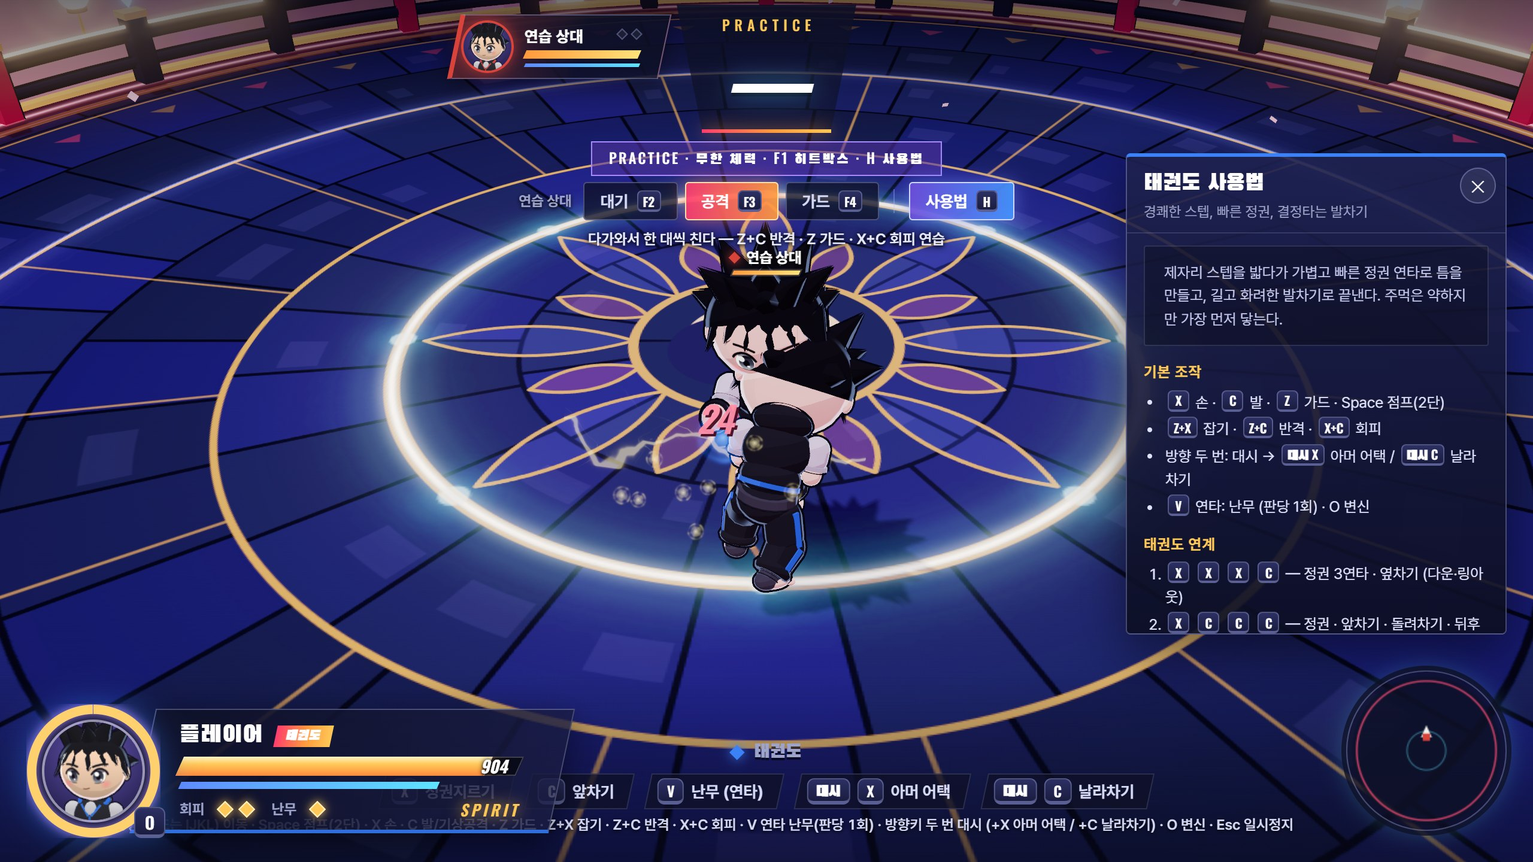
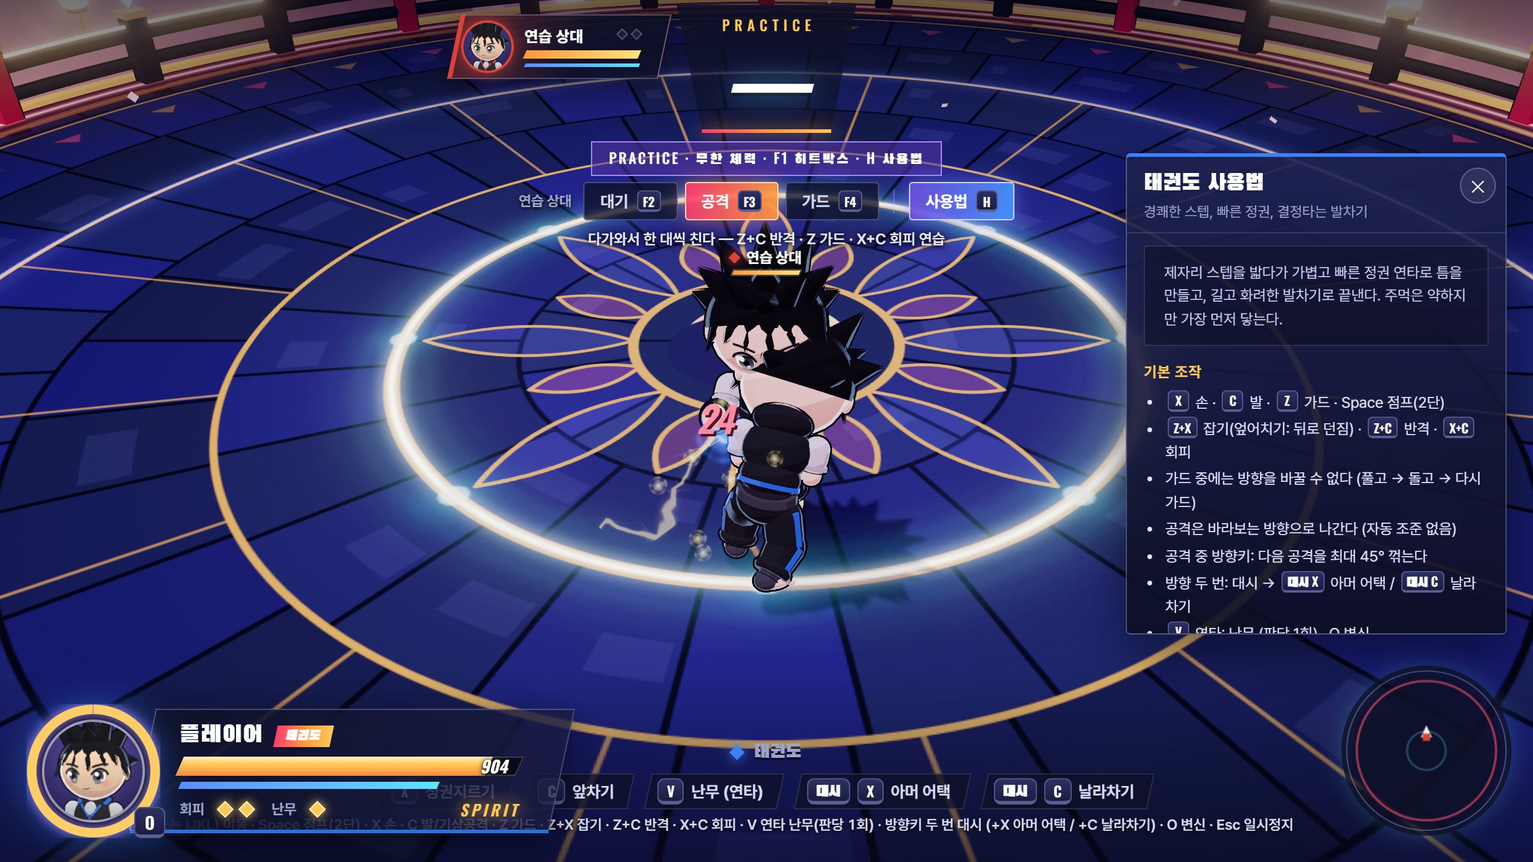
Shoulder throw, locked guard facing, manual aim, practice map picker
- Basic grab is now a shoulder throw: the opponent goes over and lands behind
- Guard cannot turn; drop it, turn, guard again
- Player attacks no longer auto-face enemies; follow-ups steer up to 45 degrees
- Practice: guard partner walks up to the player, map can be chosen on the select screen
- Add tools/test-rules.mjs

Changed region(s): [[0.75, 0.4688, 0.9688, 0.75], [0.375, 0.5, 0.5625, 0.6562]]

diff --git a/src/fighter.ts b/src/fighter.ts
@@ -27,6 +27,8 @@ export interface Ctrl {
   mx: number; mz: number; dash: boolean; guard: boolean;
   J: boolean; K: boolean; S: boolean; jump: boolean; Jh?: boolean; grab: boolean; counter: boolean; transform: boolean; s1: boolean; s2: boolean;
 }
+/** how far one follow-up attack can be turned with the stick */
+export const STEER_MAX = Math.PI / 4;
 export const emptyCtrl = (): Ctrl => ({ mx: 0, mz: 0, dash: false, guard: false, J: false, K: false, S: false, jump: false, grab: false, counter: false, transform: false, s1: false, s2: false });
 const BUFFERED: (keyof Ctrl)[] = ['J', 'K', 'S', 'jump', 'grab', 'counter', 'transform', 's1', 's2'];
 
@@ -52,7 +54,11 @@ export class Fighter {
   freeze = 0; hitT = 0; shake = 0; flash = 0; flashColor = new THREE.Color(1, 1, 1); invuln = 0; combo = 0; comboDmg = 0; comboT = 0;
   lastHitBy?: Fighter; lastHitAt = -999; koPending = false; stunFor = 20; downFace = false;
   poisonT = 0; poisonBy?: Fighter; confuseT = 0; veilT = 0;
-  grabbedBy?: Fighter; holding?: Fighter; throwKind: 'normal' | 'hip' | 'counter' = 'normal';
+  grabbedBy?: Fighter; holding?: Fighter; throwKind: 'normal' | 'over' | 'hip' | 'counter' = 'normal';
+  /** the current attack was aimed with the stick, so it does not auto-face a target */
+  steered = false;
+  /** over-the-shoulder throws: the opponent is carried up and dropped behind */
+  get overThrow() { return this.throwKind === 'hip' || this.throwKind === 'over'; }
   ctrl: Ctrl = emptyCtrl(); prev: Ctrl = emptyCtrl(); buf: Partial<Record<keyof Ctrl, number>> = {};
   stats = { dmg: 0, taken: 0, kos: 0, ringouts: 0, maxCombo: 0 };
   roundWins = 0; alive = true; aura?: THREE.Object3D; blade?: THREE.Mesh; hpView = 1000;
@@ -129,8 +135,18 @@ export class Fighter {
     this.move = m; this.hitDone.clear(); this.queued = undefined; this.queuedGrab = false; this.specialDone = false;
     this.chargeT = m.charge ? 0 : -1; this.charged = false;
     if (this.ctrl.dash) this.dashLock = true; // a running attack ends the run
-    const tgt = world.nearestEnemy(this, 4);
-    if (tgt && m.special !== 'teleport') this.faceToward(tgt.pos, 1);
+    // a follow-up attack can be steered: holding a direction turns it up to 45 degrees from where the last one pointed
+    const sl = Math.hypot(this.ctrl.mx, this.ctrl.mz);
+    // the player aims by hand: no strike turns toward an enemy by itself (난무 and specials still seek their target)
+    this.steered = this.isPlayer && !world.autopilot && !m.nanmu && !m.special;
+    if (this.steered && !(this.state === 'attack' && sl > 0.3)) { /* keeps pointing where it already points */ }
+    else if (this.steered) {
+      let diff = Math.atan2(this.ctrl.mx, this.ctrl.mz) - this.yaw; diff = Math.atan2(Math.sin(diff), Math.cos(diff));
+      this.yaw += Math.max(-STEER_MAX, Math.min(STEER_MAX, diff));
+    } else {
+      const tgt = world.nearestEnemy(this, 4);
+      if (tgt && m.special !== 'teleport') this.faceToward(tgt.pos, 1);
+    }
     this.setState('attack');
     this.play(m.anim, { speed: m.speed, loop: false, fade: 0.05 });
     if (m.invuln) this.invuln = m.invuln;
@@ -204,6 +220,7 @@ export class Fighter {
       case 'land': this.vel.x *= 0.6; this.vel.z *= 0.6; if (this.stateT > 6) this.toNeutral(); break;
       case 'attack': this.updateAttack(world); break;
       case 'guard': {
+        // a guard is committed to the direction it was raised in: to face elsewhere, drop it, turn, and guard again
         this.vel.x *= 0.6; this.vel.z *= 0.6;
         if (!c.guard) this.toNeutral(); else if (this.pressed('grab')) this.startGrab(); else if (this.pressed('counter')) { this.setState('counter'); this.play('Sword_Block', { speed: 1.4, loop: false }); }
         break;
@@ -213,9 +230,11 @@ export class Fighter {
       case 'throwing': {
         const v = this.holding;
         if (v && v.state === 'thrown') {
-          const f = this.forward(); const lift = this.throwKind === 'hip' ? Math.min(0.8, this.stateT * 0.04) : Math.min(0.45, this.stateT * 0.016);
-          v.pos.set(this.pos.x + f.x * 0.7, this.pos.y + lift, this.pos.z + f.z * 0.7); v.yaw = this.yaw + Math.PI; v.vel.set(0, 0, 0);
-          if (this.stateT === (this.throwKind === 'hip' ? 22 : 26)) world.releaseThrow(this, v);
+          const f = this.forward(); const lift = this.overThrow ? Math.min(0.8, this.stateT * 0.04) : Math.min(0.45, this.stateT * 0.016);
+          // shoulder throw: the opponent is hauled from the front, up over the shoulder, to behind
+          const k = this.throwKind === 'over' ? Math.min(1, Math.max(0, (this.stateT - 8) / 14)) : 0; const off = 0.7 - 1.1 * k * k; const ly = this.throwKind === 'over' ? lift + 0.25 * k : lift;
+          v.pos.set(this.pos.x + f.x * off, this.pos.y + ly, this.pos.z + f.z * off); v.yaw = this.yaw + Math.PI; v.vel.set(0, 0, 0);
+          if (this.stateT === (this.overThrow ? 22 : 26)) world.releaseThrow(this, v);
         }
         // jujutsu: after the release the throw can be jump-cancelled to chase the tossed opponent
         if (this.style.comboGrab && this.throwKind !== 'hip' && this.stateT > 27 && this.pressed('jump')) {
@@ -278,7 +297,12 @@ export class Fighter {
     else if (this.grounded && first && t < first.from && !m.radial && !m.special) {
       // homing step: close the gap to a target in front so strikes connect
       const tgt = world.nearestEnemy(this, 2.6); const want = first.limb.startsWith('foot') ? 0.88 : first.limb.startsWith('hand') ? 0.74 : 0.62;
-      if (tgt) {
+      if (this.steered) { // aimed by hand: step where it points, never turn; only stop short of someone already straight ahead
+        const f = this.forward(); let sp = 1.6;
+        if (tgt) { const d = tgt.pos.clone().sub(this.pos); d.y = 0; const dist = d.length() || 1; if ((d.x * f.x + d.z * f.z) / dist > 0.7) sp = dist > want ? Math.min(4.5, (dist - want) * 8) : 0; }
+        this.vel.x = f.x * sp; this.vel.z = f.z * sp;
+      }
+      else if (tgt) {
         const d = tgt.pos.clone().sub(this.pos); d.y = 0; const dist = d.length();
         this.faceToward(tgt.pos, 0.2);
         const sp = dist > want ? Math.min(4.5, (dist - want) * 8) : 0; const f = this.forward(); this.vel.x = f.x * sp; this.vel.z = f.z * sp;
@@ -438,6 +462,8 @@ export class Fighter {
 }
 
 export interface World {
+  /** demo mode: the player character is driven by the AI and aims like one */
+  autopilot?: boolean;
   nearestEnemy(f: Fighter, maxD?: number): Fighter | undefined;
   checkHits(f: Fighter, m: MoveDef, hitIndex: number): void;
   tryGrab(f: Fighter, cmd: boolean, combo?: boolean): boolean;

diff --git a/src/practice.ts b/src/practice.ts
@@ -7,7 +7,7 @@ export type DummyMode = 'idle' | 'attack' | 'guard';
 const MODES: [DummyMode, string, string][] = [
   ['idle', '대기', '가만히 서 있는다 — 콤보 연습'],
   ['attack', '공격', '다가와서 한 대씩 친다 — Z+C 반격 · Z 가드 · X+C 회피 연습'],
-  ['guard', '가드', '계속 막고 있는다 — Z+X 잡기 연습'],
+  ['guard', '가드', '다가와서 계속 막는다 — Z+X 잡기(엎어치기) 연습'],
 ];
 /** how often the partner throws its single strike, in ticks */
 const ATTACK_EVERY = 84;
@@ -44,7 +44,7 @@ function guideHtml(g: Game) {
   const st = STYLES[g.pcfg.style];
   const li = (a: string[]) => a.map((c) => `<li>${keys(c)}</li>`).join('');
   return `<p class="desc">${st.desc}</p>
-    <h4>기본 조작</h4><ul>${li(['X 손 · C 발 · Z 가드 · Space 점프(2단)', 'Z+X 잡기 · Z+C 반격 · X+C 회피', '방향 두 번: 대시 → 대시 X 아머 어택 / 대시 C 날라차기', 'V 연타: 난무 (판당 1회) · O 변신'])}</ul>
+    <h4>기본 조작</h4><ul>${li(['X 손 · C 발 · Z 가드 · Space 점프(2단)', 'Z+X 잡기(엎어치기: 뒤로 던짐) · Z+C 반격 · X+C 회피', '가드 중에는 방향을 바꿀 수 없다 (풀고 → 돌고 → 다시 가드)', '공격은 바라보는 방향으로 나간다 (자동 조준 없음)', '공격 중 방향키: 다음 공격을 최대 45° 꺾는다', '방향 두 번: 대시 → 대시 X 아머 어택 / 대시 C 날라차기', 'V 연타: 난무 (판당 1회) · O 변신'])}</ul>
     <h4>${st.name} 연계</h4><ol>${li(st.combos)}</ol>
     <h4>특성</h4><ul>${li(st.traits)}</ul>
     <h4>상성</h4><ul><li>공격 &gt; 잡기 &gt; 가드·반격 &gt; 공격</li><li>상대 <b>공격</b> 모드: 맞기 직전에 ${keys('Z+C')} 반격</li><li>상대 <b>가드</b> 모드: 때리지 말고 ${keys('Z+X')} 잡기</li></ul>`;
@@ -71,7 +71,16 @@ export function dummyCtrl(g: Game, f: Fighter): Ctrl {
   const c = emptyCtrl(); const P = g.player; if (!P || g.dummy === 'idle') return c;
   const dx = P.pos.x - f.pos.x, dz = P.pos.z - f.pos.z, d = Math.hypot(dx, dz) || 1;
   const free = f.controllable() && f.grounded;
-  if (g.dummy === 'guard') { if (free || f.state === 'guard') { f.faceToward(P.pos, 0.3); c.guard = true; } return c; }
+  if (g.dummy === 'guard') {
+    // come to the player and guard facing them. A raised guard cannot turn, so when the player steps
+    // around it (or away) the guard is dropped, the partner turns / follows, and guards again.
+    let off = Math.atan2(dx, dz) - f.yaw; off = Math.abs(Math.atan2(Math.sin(off), Math.cos(off)));
+    if (f.state === 'guard' || f.state === 'blockstun') { c.guard = d < 1.9 && off < 0.8; return c; }
+    if (!free) return c;
+    if (d > 1.25) { c.mx = dx / d; c.mz = dz / d; return c; }
+    if (off > 0.2) { f.faceToward(P.pos, 0.35); return c; }
+    c.guard = true; return c;
+  }
   // attack: walk into range, then one clean strike on a steady beat so its timing can be learned
   if (!free) return c;
   if (g.dummyT > 0) g.dummyT--;

diff --git a/src/game.ts b/src/game.ts
@@ -424,14 +424,16 @@ class Game implements World {
       if (cmd || combo) okStates.push('hitstun');
       if (!okStates.includes(v.state) || !v.grounded || v.invuln > 0) continue;
       this.startThrow(f, v, cmd ? 'hip' : 'normal');
-      UI.popText(this, f, cmd ? '업어치기!' : combo ? '잡기 캔슬!' : '잡기!', '#ffd84a');
+      UI.popText(this, f, cmd ? '업어치기!' : combo ? '잡기 캔슬!' : f.style.comboGrab ? '잡기!' : '엎어치기!', '#ffd84a');
       return true;
     }
     return false;
   }
-  startThrow(f: Fighter, v: Fighter, kind: 'normal' | 'hip' | 'counter') {
+  startThrow(f: Fighter, v: Fighter, kind: 'normal' | 'over' | 'hip' | 'counter') {
+    if (kind === 'normal' && !f.style.comboGrab) kind = 'over'; // the basic grab is a shoulder throw: the opponent goes over and lands behind
     f.faceToward(v.pos, 1); f.setState('throwing'); f.holding = v; f.throwKind = kind; f.move = undefined;
-    f.play(kind === 'hip' ? 'pull_throw' : 'OverhandThrow', { speed: kind === 'hip' ? 1.3 : 1.5, loop: false });
+    const over = kind === 'hip' || kind === 'over';
+    f.play(over ? 'pull_throw' : 'OverhandThrow', { speed: over ? 1.3 : 1.5, loop: false });
     v.setState('thrown'); v.grabbedBy = f; v.play('Hit_Knockback', { loop: false, speed: 0.5 }); v.move = undefined;
     this.fx.hit(v.pos.clone().add(new THREE.Vector3(0, 0.75, 0)), 'grab', new THREE.Vector3(), 1); this.hitStop(f, v, 5);
   }
@@ -441,10 +443,11 @@ class Game implements World {
     f.combo++; f.comboDmg += dmg; f.comboT = 80; f.stats.maxCombo = Math.max(f.stats.maxCombo, f.combo);
     this.damage(f, v, dmg, v.pos.clone().add(new THREE.Vector3(0, 0.7, 0)), 3);
     if (kind === 'hip') { v.pos.set(f.pos.x + fw.x * 0.2, f.pos.y + 1.0, f.pos.z + fw.z * 0.2); v.vel.set(-fw.x * 3.5, -1.5 * VS, -fw.z * 3.5); } // over the shoulder, slammed down behind
+    else if (kind === 'over') { v.pos.set(f.pos.x - fw.x * 0.4, f.pos.y + 1.05, f.pos.z - fw.z * 0.4); v.vel.set(-fw.x * 4.2, 1.6 * VS, -fw.z * 4.2); } // 엎어치기: over the shoulder and away behind
     else if (f.style.comboGrab) v.vel.set(fw.x * 0.9, 5.4 * VS, fw.z * 0.9); // jujutsu: toss the opponent up in front, ready for an air chase
     else v.vel.set(fw.x * 7.5, 4.5 * VS, fw.z * 7.5);
-    v.launch(kind !== 'hip'); v.freeze = 0;
-    this.camShake = 0.28; this.fovKick = 2.4; this.fx.hit(v.pos.clone().add(new THREE.Vector3(0, 0.7, 0)), 'heavy', fw, 3);
+    v.launch(kind !== 'hip' && kind !== 'over'); v.freeze = 0;
+    this.camShake = 0.28; this.fovKick = 2.4; this.fx.hit(v.pos.clone().add(new THREE.Vector3(0, 0.7, 0)), 'heavy', kind === 'over' ? fw.clone().negate() : fw, 3);
   }
 
   // ---------- movement events

diff --git a/src/ui.ts b/src/ui.ts
@@ -106,6 +106,7 @@ export function screens(g: Game) {
     select() {
       const p = g.pcfg; const st = STYLES[p.style];
       const el = h(`<div class="screen select">${sheet('FIGHTER', '캐릭터 · 비전서', `
+        ${g.match.practice ? '<div class="field"><label>맵</label><div class="seg wrap" id="pmap"></div></div>' : ''}
         <div class="field"><label>체형</label><div class="seg" id="body"></div></div>
         <div class="field"><label>색상</label><div class="swatches" id="sw"></div></div>
         <div class="styles" id="style"></div>
@@ -116,6 +117,8 @@ export function screens(g: Game) {
         </div>
         <div class="stats">${statBars(p.style)}</div>`, 'side')}</div>`);
       setLayer(el);
+      const pm = el.querySelector('#pmap');
+      if (pm) for (const m of Object.values(MAPS)) { const s2 = h(`<span class="${MAP.cur.id === m.id ? 'on' : ''}">${m.name}</span>`); s2.onclick = () => { click(); g.setMap(m.id); g.refreshSelect(); this.select(); }; pm.append(s2); }
       const body = el.querySelector('#body')!;
       for (const [lab, v] of [['남', 'male'], ['여', 'female']] as const) { const s2 = h(`<span class="${p.body === v ? 'on' : ''}">${lab}</span>`); s2.onclick = () => { click(); if (p.body !== v && (p.suit === SUITS[0] || p.suit === SUITS[1])) p.suit = v === 'female' ? SUITS[1] : SUITS[0]; p.body = v; g.refreshSelect(); this.select(); }; body.append(s2); }
       const sw = el.querySelector('#sw')!;
@@ -200,7 +203,7 @@ export function screens(g: Game) {
           <aside>
             <h3>추천 연계</h3><ol class="routes">${st.combos.map((c) => `<li>${c}</li>`).join('')}</ol>
             <h3>비전서 특성</h3><ul class="routes">${st.traits.map((t) => `<li>${t}</li>`).join('')}</ul>
-            <h3>공통</h3><ul class="routes"><li>X+C 회피기(라운드당 2회) · Z+X 잡기 · Z+C 반격 · Z 가드 · 다운 중 C 기상 공격 · Space 2번 2단 점프</li><li>공격 &gt; 잡기 &gt; 가드·반격 &gt; 공격</li><li>변신 중 X X X 정령검 · 1 돌진 베기 · 2 회오리 베기</li></ul>
+            <h3>공통</h3><ul class="routes"><li>X+C 회피기(라운드당 2회) · Z+X 잡기(엎어치기: 뒤로 던짐) · Z+C 반격 · Z 가드 · 다운 중 C 기상 공격 · Space 2번 2단 점프</li><li>공격 &gt; 잡기 &gt; 가드·반격 &gt; 공격</li><li>변신 중 X X X 정령검 · 1 돌진 베기 · 2 회오리 베기</li></ul>
           </aside>
         </div>`, 'wide')}</div>`);
       el.querySelectorAll('.tabs span').forEach((sp) => ((sp as HTMLElement).onclick = () => { click(); screens(g).moves(fromPause, (sp as HTMLElement).dataset.id!, fromSelect); }));

diff --git a/src/style.css b/src/style.css
@@ -397,3 +397,5 @@ body.touch #practice .pbar kbd { display: none; }
 body.touch #practice .pbar { top: calc(var(--s) * 132px); }
 body.touch #practice .pguide { right: calc(var(--s) * 150px); top: 8px; max-height: calc(46vh / var(--s)); }
 body.touch .hud .practice { display: none; }
+
+.seg.wrap { flex-wrap: wrap; row-gap: 6px; }

diff --git a/tools/patch-throw.py b/tools/patch-throw.py
@@ -1,0 +1,71 @@
+OUT = {}
+def must(s, a, b):
+    assert a in s, a[:90]; return s.replace(a, b, 1)
+
+p = 'src/fighter.ts'; s = open(p, encoding='utf-8').read()
+s = must(s, "throwKind: 'normal' | 'hip' | 'counter' = 'normal';", "throwKind: 'normal' | 'over' | 'hip' | 'counter' = 'normal';\n  /** the current attack was aimed with the stick, so it does not auto-face a target */\n  steered = false;\n  /** over-the-shoulder throws: the opponent is carried up and dropped behind */\n  get overThrow() { return this.throwKind === 'hip' || this.throwKind === 'over'; }")
+s = must(s, "const lift = this.throwKind === 'hip' ? Math.min(0.8, this.stateT * 0.04)", "const lift = this.overThrow ? Math.min(0.8, this.stateT * 0.04)")
+s = must(s, "if (this.stateT === (this.throwKind === 'hip' ? 22 : 26)) world.releaseThrow(this, v);", "if (this.stateT === (this.overThrow ? 22 : 26)) world.releaseThrow(this, v);")
+s = must(s, """    const tgt = world.nearestEnemy(this, 4);
+    if (tgt && m.special !== 'teleport') this.faceToward(tgt.pos, 1);
+    this.setState('attack');""", """    // a follow-up attack can be steered: holding a direction turns it up to 45 degrees from where the last one pointed
+    const sl = Math.hypot(this.ctrl.mx, this.ctrl.mz);
+    this.steered = this.state === 'attack' && sl > 0.3 && !m.nanmu && !m.special;
+    if (this.steered) {
+      let diff = Math.atan2(this.ctrl.mx, this.ctrl.mz) - this.yaw; diff = Math.atan2(Math.sin(diff), Math.cos(diff));
+      this.yaw += Math.max(-STEER_MAX, Math.min(STEER_MAX, diff));
+    } else {
+      const tgt = world.nearestEnemy(this, 4);
+      if (tgt && m.special !== 'teleport') this.faceToward(tgt.pos, 1);
+    }
+    this.setState('attack');""")
+s = must(s, """      if (tgt) {
+        const d = tgt.pos.clone().sub(this.pos); d.y = 0; const dist = d.length();
+        this.faceToward(tgt.pos, 0.2);""", """      if (this.steered) { const f = this.forward(); this.vel.x = f.x * 1.6; this.vel.z = f.z * 1.6; } // aimed by hand: step where it points, no homing
+      else if (tgt) {
+        const d = tgt.pos.clone().sub(this.pos); d.y = 0; const dist = d.length();
+        this.faceToward(tgt.pos, 0.2);""")
+s = must(s, "export const emptyCtrl", "/** how far one follow-up attack can be turned with the stick */\nexport const STEER_MAX = Math.PI / 4;\nexport const emptyCtrl")
+s = must(s, "      case 'guard': {\n", "      case 'guard': {\n        // a guard is committed to the direction it was raised in: to face elsewhere, drop it, turn, and guard again\n")
+OUT[p] = s
+
+p = 'src/game.ts'; s = open(p, encoding='utf-8').read()
+s = must(s, "startThrow(f: Fighter, v: Fighter, kind: 'normal' | 'hip' | 'counter') {", "startThrow(f: Fighter, v: Fighter, kind: 'normal' | 'over' | 'hip' | 'counter') {\n    if (kind === 'normal' && !f.style.comboGrab) kind = 'over'; // the basic grab is a shoulder throw: the opponent goes over and lands behind")
+s = must(s, "f.play(kind === 'hip' ? 'pull_throw' : 'OverhandThrow', { speed: kind === 'hip' ? 1.3 : 1.5, loop: false });", "const over = kind === 'hip' || kind === 'over';\n    f.play(over ? 'pull_throw' : 'OverhandThrow', { speed: over ? 1.3 : 1.5, loop: false });")
+s = must(s, "    else if (f.style.comboGrab) v.vel.set(fw.x * 0.9", "    else if (kind === 'over') { v.pos.set(f.pos.x + fw.x * 0.1, f.pos.y + 1.05, f.pos.z + fw.z * 0.1); v.vel.set(-fw.x * 5.2 * KB_DOWN, 1.6 * VS, -fw.z * 5.2 * KB_DOWN); } // 엎어치기: over the shoulder and away behind\n    else if (f.style.comboGrab) v.vel.set(fw.x * 0.9")
+s = must(s, "v.launch(kind !== 'hip'); v.freeze = 0;", "v.launch(kind !== 'hip' && kind !== 'over'); v.freeze = 0;")
+s = must(s, "this.fx.hit(v.pos.clone().add(new THREE.Vector3(0, 0.7, 0)), 'heavy', fw, 3);\n  }", "this.fx.hit(v.pos.clone().add(new THREE.Vector3(0, 0.7, 0)), 'heavy', kind === 'over' ? fw.clone().negate() : fw, 3);\n  }")
+s = must(s, "cmd ? '업어치기!' : combo ? '잡기 캔슬!' : '잡기!'", "cmd ? '업어치기!' : combo ? '잡기 캔슬!' : f.style.comboGrab ? '잡기!' : '엎어치기!'")
+OUT[p] = s
+
+p = 'src/practice.ts'; s = open(p, encoding='utf-8').read()
+a = s.index("  if (g.dummy === 'guard') {"); b = s.index("  // attack: walk into range")
+s = s[:a] + """  if (g.dummy === 'guard') {
+    // come to the player and guard facing them. A raised guard cannot turn, so when the player steps
+    // around it (or away) the guard is dropped, the partner turns / follows, and guards again.
+    let off = Math.atan2(dx, dz) - f.yaw; off = Math.abs(Math.atan2(Math.sin(off), Math.cos(off)));
+    if (f.state === 'guard' || f.state === 'blockstun') { c.guard = d < 1.9 && off < 0.8; return c; }
+    if (!free) return c;
+    if (d > 1.25) { c.mx = dx / d; c.mz = dz / d; return c; }
+    if (off > 0.2) { f.faceToward(P.pos, 0.35); return c; }
+    c.guard = true; return c;
+  }
+""" + s[b:]
+s = must(s, "['guard', '가드', '계속 막고 있는다 — Z+X 잡기 연습']", "['guard', '가드', '다가와서 계속 막는다 — Z+X 잡기(엎어치기) 연습']")
+s = must(s, "'Z+X 잡기 · Z+C 반격 · X+C 회피'", "'Z+X 잡기(엎어치기: 뒤로 던짐) · Z+C 반격 · X+C 회피', '가드 중에는 방향을 바꿀 수 없다 (풀고 → 돌고 → 다시 가드)', '공격 중 방향키: 다음 공격을 최대 45° 꺾는다'")
+OUT[p] = s
+
+p = 'src/ui.ts'; s = open(p, encoding='utf-8').read()
+s = must(s, """      const el = h(`<div class="screen select">${sheet('FIGHTER', '캐릭터 · 비전서', `
+""", """      const el = h(`<div class="screen select">${sheet('FIGHTER', '캐릭터 · 비전서', `
+        ${g.match.practice ? '<div class="field"><label>맵</label><div class="seg wrap" id="pmap"></div></div>' : ''}
+""")
+s = must(s, "      const body = el.querySelector('#body')!;", "      const pm = el.querySelector('#pmap');\n      if (pm) for (const m of Object.values(MAPS)) { const s2 = h(`<span class=\"${MAP.cur.id === m.id ? 'on' : ''}\">${m.name}</span>`); s2.onclick = () => { click(); g.setMap(m.id); g.refreshSelect(); this.select(); }; pm.append(s2); }\n      const body = el.querySelector('#body')!;")
+s = must(s, "<li>X+C 회피기(라운드당 2회) · Z+X 잡기 ·", "<li>X+C 회피기(라운드당 2회) · Z+X 잡기(엎어치기: 뒤로 던짐) ·")
+OUT[p] = s
+
+p = 'src/style.css'; s = open(p, encoding='utf-8').read()
+s += "\n.seg.wrap { flex-wrap: wrap; row-gap: 6px; }\n"
+OUT[p] = s
+for p, s in OUT.items(): open(p, 'w', encoding='utf-8', newline='\n').write(s)
+print('ok')

diff --git a/tools/patch-aim.py b/tools/patch-aim.py
@@ -1,0 +1,19 @@
+def must(s, a, b):
+    assert a in s, a[:80]; return s.replace(a, b, 1)
+p = 'src/fighter.ts'; s = open(p, encoding='utf-8').read()
+s = must(s, "    this.steered = this.state === 'attack' && sl > 0.3 && !m.nanmu && !m.special;\n    if (this.steered) {", "    // the player aims by hand: no strike turns toward an enemy by itself (난무 and specials still seek their target)\n    this.steered = this.isPlayer && !world.autopilot && !m.nanmu && !m.special;\n    if (this.steered && !(this.state === 'attack' && sl > 0.3)) { /* keeps pointing where it already points */ }\n    else if (this.steered) {")
+s = must(s, "      if (this.steered) { const f = this.forward(); this.vel.x = f.x * 1.6; this.vel.z = f.z * 1.6; } // aimed by hand: step where it points, no homing",
+"""      if (this.steered) { // aimed by hand: step where it points, never turn; only stop short of someone already straight ahead
+        const f = this.forward(); let sp = 1.6;
+        if (tgt) { const d = tgt.pos.clone().sub(this.pos); d.y = 0; const dist = d.length() || 1; if ((d.x * f.x + d.z * f.z) / dist > 0.7) sp = dist > want ? Math.min(4.5, (dist - want) * 8) : 0; }
+        this.vel.x = f.x * sp; this.vel.z = f.z * sp;
+      }""")
+open(p, 'w', encoding='utf-8', newline='\n').write(s)
+p = 'src/practice.ts'; s = open(p, encoding='utf-8').read()
+s = must(s, "'공격 중 방향키: 다음 공격을 최대 45° 꺾는다'", "'공격은 바라보는 방향으로 나간다 (자동 조준 없음)', '공격 중 방향키: 다음 공격을 최대 45° 꺾는다'")
+open(p, 'w', encoding='utf-8', newline='\n').write(s)
+p = 'tools/test-rules.mjs'; s = open(p, encoding='utf-8').read()
+s = must(s, "ok('첫 타는 여전히 가까운 적을 본다', r.d < 0.2, `오차 ${deg(r.d)}°`);", "ok('첫 타도 자동으로 적을 보지 않는다', Math.abs(r.yaw - 1.2) < 1e-6 && r.dmg === 0, `yaw ${deg(r.yaw)}°, 피해 ${r.dmg}`);")
+s = must(s, "a.yaw = 1.2; T.run((i) => ({ J: i === 0 }), {}, 6); let d", "a.yaw = 1.2; const hp0 = v.hp; T.run((i) => ({ J: i === 0 }), {}, 40); let d")
+s = must(s, "return { d: Math.abs(Math.atan2(Math.sin(d), Math.cos(d))) }; });", "return { d: Math.abs(Math.atan2(Math.sin(d), Math.cos(d))), yaw: a.yaw, dmg: hp0 - v.hp }; });")
+open(p, 'w', encoding='utf-8', newline='\n').write(s)

diff --git a/tools/patch-throw2.py b/tools/patch-throw2.py
@@ -1,0 +1,5 @@
+p = 'src/fighter.ts'; s = open(p, encoding='utf-8').read()
+a = "v.pos.set(this.pos.x + f.x * 0.7, this.pos.y + lift, this.pos.z + f.z * 0.7); v.yaw"
+assert a in s
+s = s.replace(a, "// shoulder throw: the opponent is hauled from the front, up over the shoulder, to behind\n          const k = this.throwKind === 'over' ? Math.min(1, Math.max(0, (this.stateT - 8) / 14)) : 0; const off = 0.7 - 1.1 * k * k; const ly = this.throwKind === 'over' ? lift + 0.25 * k : lift;\n          v.pos.set(this.pos.x + f.x * off, this.pos.y + ly, this.pos.z + f.z * off); v.yaw")
+open(p, 'w', encoding='utf-8', newline='\n').write(s)
